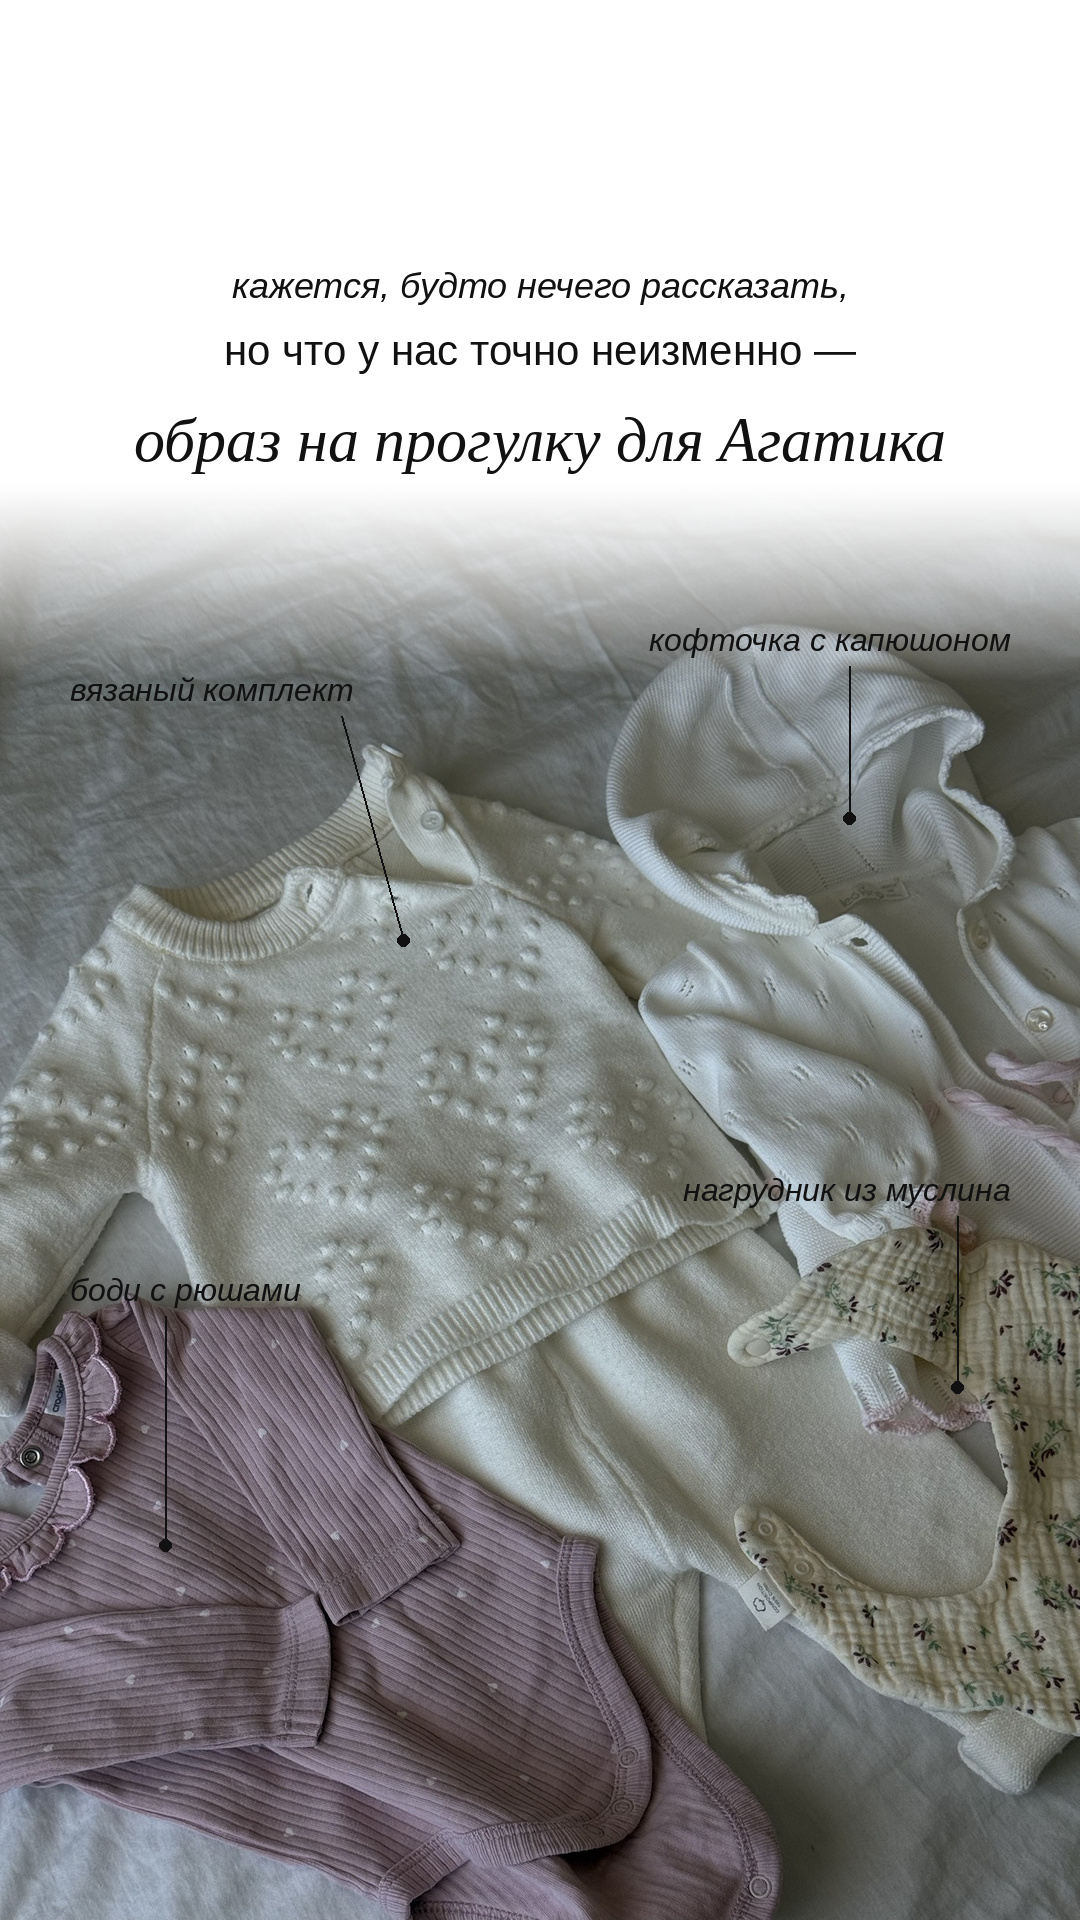
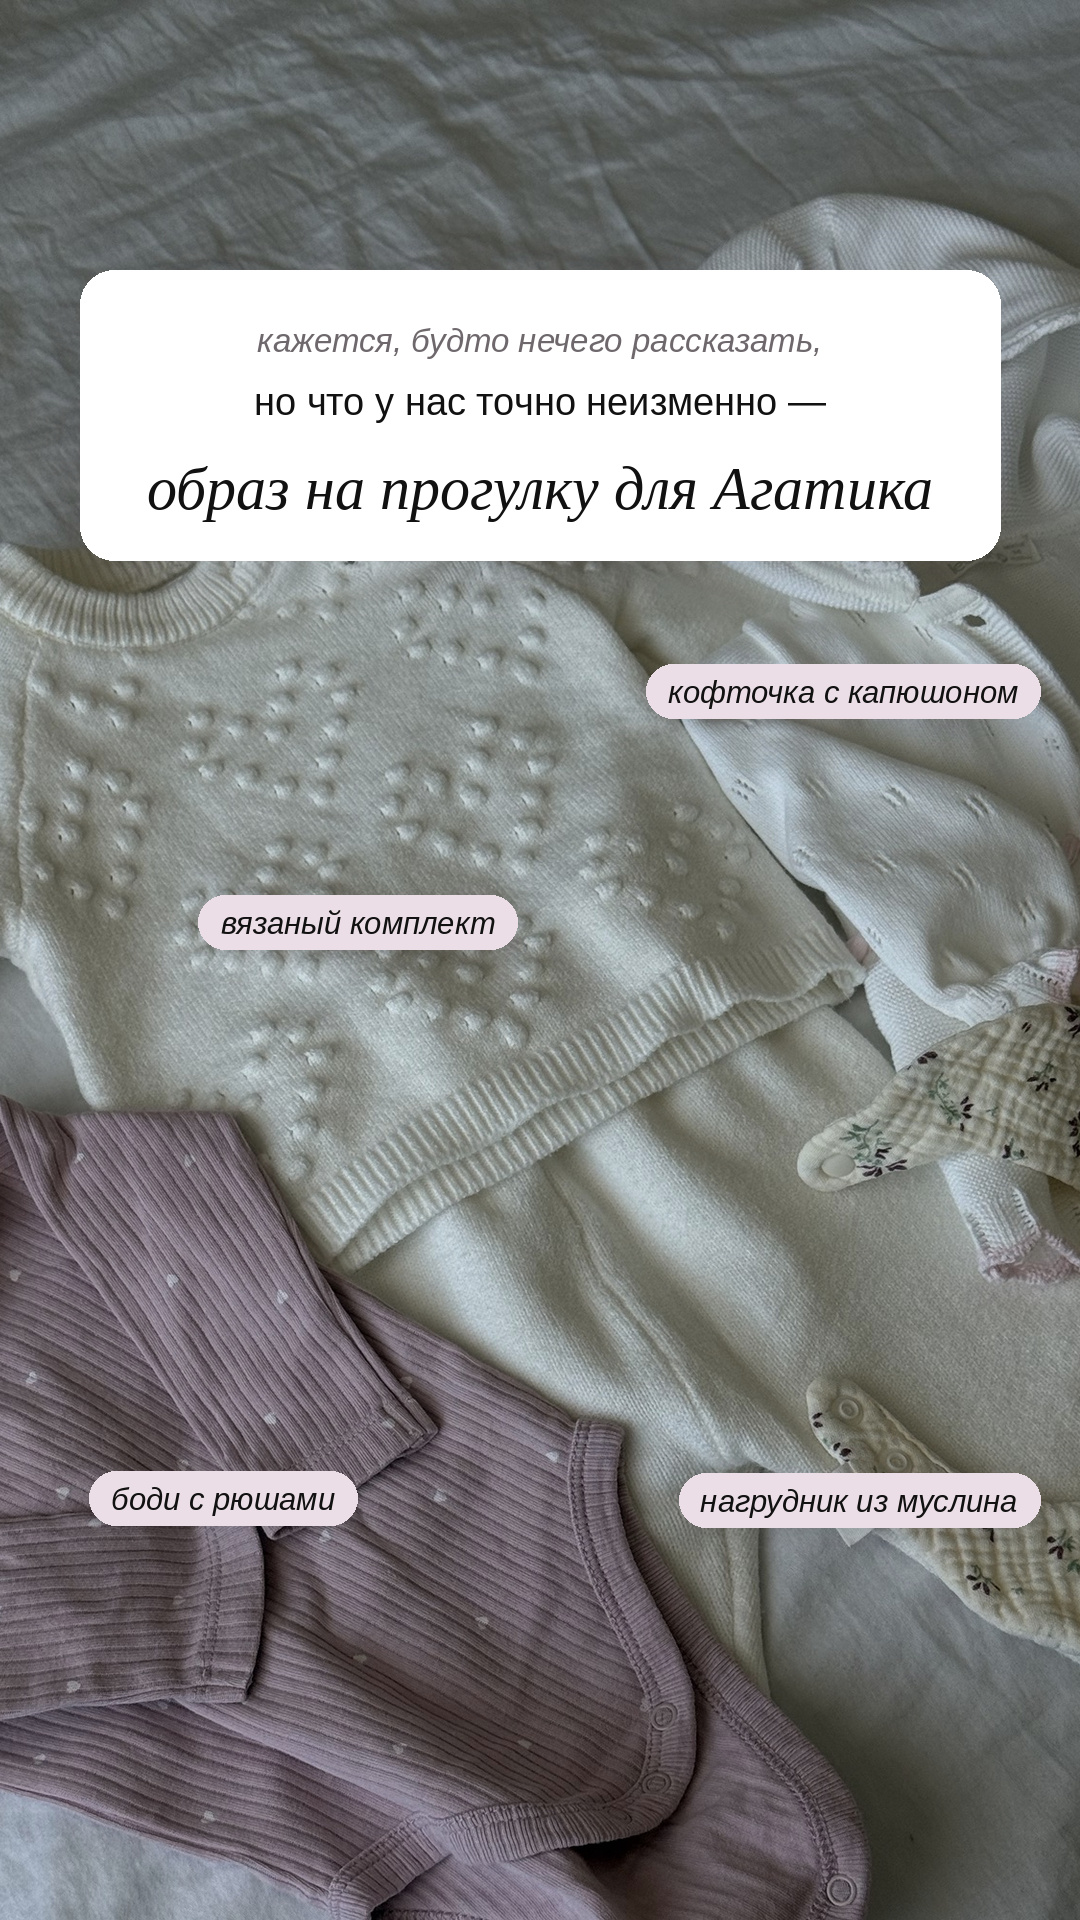
@mcg.va stories v2: full-bleed photo, soft-shadow cards, pastel pills (aesthetic-stories look, blog fonts)
Claude-Session: https://claude.ai/code/session_012YshTqjf4Bh49UeEqyfujw

diff --git a/tools/stories_walk_look.py b/tools/stories_walk_look.py
@@ -1,15 +1,18 @@
-"""@mcg.va stories — «образ на прогулку для Агатика» (2 stories, 1080x1920) set with stories_kit roles.
-  1: white page, the week in a centred stack (title / body list / detail + 🫠), like the blog's own text stories
-  2: white band that melts into the flat-lay photo; the look's pieces marked with small detail-font labels
+"""@mcg.va stories — «образ на прогулку для Агатика» (2 stories, 1080x1920), v2 in the aesthetic-stories look:
+full-bleed muted photo, centred white headline with a soft shadow, white rounded cards with a soft drop shadow
+(like native IG reply cards / paper notes), pastel highlighter pills for the pieces of the look.
+Type roles from stories_kit: title = serif italic, body = sans, detail = sans italic.
   python3 -I stories_walk_look.py photo.jpg out_dir
 """
 import os, sys
 import numpy as np
-from PIL import Image, ImageDraw, ImageFont
+from PIL import Image, ImageDraw, ImageFont, ImageFilter
 sys.path.insert(0, os.path.dirname(os.path.abspath(__file__)))
-from stories_kit import W, H, INK, draw_text, font
+from stories_kit import W, H, INK, font
 
 EMOJI = "/usr/share/fonts/truetype/noto/NotoColorEmoji.ttf"
+PILL = (236, 222, 230)          # pale lilac from the bodysuit
+GREY = (110, 104, 108)
 
 def emoji(ch, size):
     im = Image.new("RGBA", (160, 160), (0, 0, 0, 0))
@@ -17,49 +20,70 @@ def emoji(ch, size):
     im = im.crop(im.getbbox()); k = size / im.height
     return im.resize((int(im.width * k), size), Image.LANCZOS)
 
-def line_with_emoji(img, role, text, ch, y):
-    fnt = font(role); tw = fnt.getlength(text); es = int(fnt.size * 1.05); gap = fnt.size * 0.35
-    x0 = (W - (tw + gap + es)) / 2
-    ImageDraw.Draw(img).text((x0, y), text, font=fnt, fill=INK, anchor="lm")
-    e = emoji(ch, es); img.paste(e, (int(x0 + tw + gap), int(y - es / 2)), e)
+def bg(photo, scale, ox, oy, mute=0.0):
+    """photo scaled by `scale`, story window at (ox, oy) in scaled px; slightly muted grade"""
+    ph = Image.open(photo).convert("RGB"); ph = ph.resize((int(ph.width * scale), int(ph.height * scale)), Image.LANCZOS)
+    a = np.asarray(ph.crop((ox, oy, ox + W, oy + H)), np.float32) / 255
+    a = a * 0.9 + a.mean(2, keepdims=True) * 0.1
+    a = a * (1 - mute)
+    return Image.fromarray((np.clip(a, 0, 1) * 255 + .5).astype(np.uint8))
 
-def story1(out):
-    img = Image.new("RGB", (W, H), "white")
-    y = draw_text(img, "title", "Последние дни", 600)
-    draw_text(img, "title", "столько всего происходит", y - 6)
-    y = 850
-    for t in ["ездили делать прививку", "смотрели, как папа выступает", "много гуляли", "сходили с ума", "гости приезжали"]:
-        draw_text(img, "body", t, y); y += 66
-    line_with_emoji(img, "detail", "но всё никак не могу выйти в сторис", "🫠", y + 80)
+def shadowed(img, box, radius, blur=28, off=10, alpha=0.20, fill=(255, 255, 255)):
+    """rounded card with a soft drop shadow"""
+    x0, y0, x1, y1 = box
+    sh = Image.new("L", img.size, 0); ImageDraw.Draw(sh).rounded_rectangle((x0, y0 + off, x1, y1 + off), radius, fill=int(255 * alpha))
+    img.paste(Image.new("RGB", img.size, (40, 30, 35)), (0, 0), sh.filter(ImageFilter.GaussianBlur(blur)))
+    ImageDraw.Draw(img).rounded_rectangle(box, radius, fill=fill)
+
+def text_shadow(img, xy, text, fnt, fill=(255, 255, 255), strength=0.45, blur=9):
+    m = Image.new("L", img.size, 0); ImageDraw.Draw(m).text((xy[0], xy[1] + 3), text, font=fnt, fill=int(255 * strength), anchor="mm")
+    img.paste(Image.new("RGB", img.size, (30, 25, 28)), (0, 0), m.filter(ImageFilter.GaussianBlur(blur)))
+    ImageDraw.Draw(img).text(xy, text, font=fnt, fill=fill, anchor="mm")
+
+def pill(img, text, cx, cy):
+    fnt = font("detail", 31); tw = fnt.getlength(text)
+    w, h = tw + 44, 54; x0 = min(max(cx - w / 2, 40), W - 40 - w); y0 = cy - h / 2
+    shadowed(img, (x0, y0, x0 + w, y0 + h), h // 2, blur=14, off=5, alpha=0.18, fill=PILL)
+    ImageDraw.Draw(img).text((x0 + w / 2, cy + 1), text, font=fnt, fill=INK, anchor="mm")
+
+def story1(photo, out):
+    img = bg(photo, 1.3, 0, 0, mute=0.06)                                       # bedding on top, knits under the card
+    ft = font("title", 66)
+    text_shadow(img, (W / 2, 330), "Последние дни", ft)
+    text_shadow(img, (W / 2, 408), "столько всего происходит", ft)
+    items = ["ездили делать прививку", "смотрели, как папа выступает", "много гуляли", "сходили с ума", "гости приезжали"]
+    fb, fd = font("body", 38), font("detail", 33)
+    x0, x1, y0, row = 150, W - 150, 560, 74
+    y1 = y0 + 70 + row * len(items) + 110
+    shadowed(img, (x0, y0, x1, y1), 34)
+    d = ImageDraw.Draw(img); y = y0 + 70
+    for i, t in enumerate(items):
+        d.ellipse((x0 + 34, y - 5, x0 + 44, y + 5), fill=PILL)
+        d.text((x0 + 62, y), t, font=fb, fill=INK, anchor="lm")
+        if i < len(items) - 1: d.line((x0 + 62, y + row / 2, x1 - 50, y + row / 2), fill=(232, 226, 230), width=2)
+        y += row
+    t = "но всё никак не могу выйти в сторис"; tw = fd.getlength(t); es = 40
+    xs = (W - tw - 14 - es) / 2; yy = y1 - 62
+    d.text((xs, yy), t, font=fd, fill=GREY, anchor="lm")
+    e = emoji("🫠", es); img.paste(e, (int(xs + tw + 14), int(yy - es / 2)), e)
     img.save(out)
 
-def label(img, text, tx, ty, dot, align="left"):
-    d = ImageDraw.Draw(img); fnt = font("detail", 32)
-    d.text((tx, ty), text, font=fnt, fill=INK, anchor="lm" if align == "left" else "rm")
-    tw = fnt.getlength(text); x0, x1 = (tx, tx + tw) if align == "left" else (tx - tw, tx)
-    sx = min(max(dot[0], x0 + 12), x1 - 12); sy = ty + 26 if dot[1] > ty else ty - 26   # leader leaves from under the label
-    d.line((sx, sy, dot[0], dot[1]), fill=INK, width=2)
-    r = 6; d.ellipse((dot[0] - r, dot[1] - r, dot[0] + r, dot[1] + r), fill=INK)
-
 def story2(photo, out):
-    ph = Image.open(photo).convert("RGB")
-    ph = ph.resize((W, int(ph.height * W / ph.width)), Image.LANCZOS)        # 1500x2000 → 1080x1440
-    top = H - ph.height                                                         # 480 px white band on top
-    img = Image.new("RGB", (W, H), "white")
-    a = np.clip((np.arange(ph.height) - 0) / 200, 0, 1) ** 1.3                  # photo melts in from the white band
-    mask = Image.fromarray((np.repeat(a[:, None], W, 1) * 255).astype(np.uint8))
-    img.paste(ph, (0, top), mask)
-    draw_text(img, "detail", "кажется, будто нечего рассказать,", 285)
-    draw_text(img, "body", "но что у нас точно неизменно —", 350)
-    draw_text(img, "title", "образ на прогулку для Агатика", 440)
-    s = W / 1500
-    P = lambda x, y: (x * s, top + y * s)                                       # photo px → story px
-    label(img, "вязаный комплект", 70, 690, P(560, 640))
-    label(img, "кофточка с капюшоном", 1010, 640, P(1180, 470), "right")
-    label(img, "нагрудник из муслина", 1010, 1190, P(1330, 1260), "right")
-    label(img, "боди с рюшами", 70, 1290, P(230, 1480))
+    s = H / 2000; ox = 180
+    img = bg(photo, s, ox, 0)
+    P = lambda x, y: (x * s - ox, y * s)                                        # photo px → story px
+    x0, x1, y0, y1 = 80, W - 80, 270, 560
+    shadowed(img, (x0, y0, x1, y1), 34)
+    d = ImageDraw.Draw(img)
+    d.text((W / 2, y0 + 70), "кажется, будто нечего рассказать,", font=font("detail", 33), fill=GREY, anchor="mm")
+    d.text((W / 2, y0 + 132), "но что у нас точно неизменно —", font=font("body", 38), fill=INK, anchor="mm")
+    d.text((W / 2, y0 + 218), "образ на прогулку для Агатика", font=font("title", 60), fill=INK, anchor="mm")
+    pill(img, "вязаный комплект", *P(560, 960))
+    pill(img, "кофточка с капюшоном", *P(1200, 720))
+    pill(img, "нагрудник из муслина", 905, 1500)
+    pill(img, "боди с рюшами", *P(420, 1560))
     img.save(out)
 
 if __name__ == "__main__":
     photo, od = sys.argv[1], sys.argv[2]
-    story1(os.path.join(od, "story_1.png")); story2(photo, os.path.join(od, "story_2.png"))
+    story1(photo, os.path.join(od, "story_1.png")); story2(photo, os.path.join(od, "story_2.png"))
